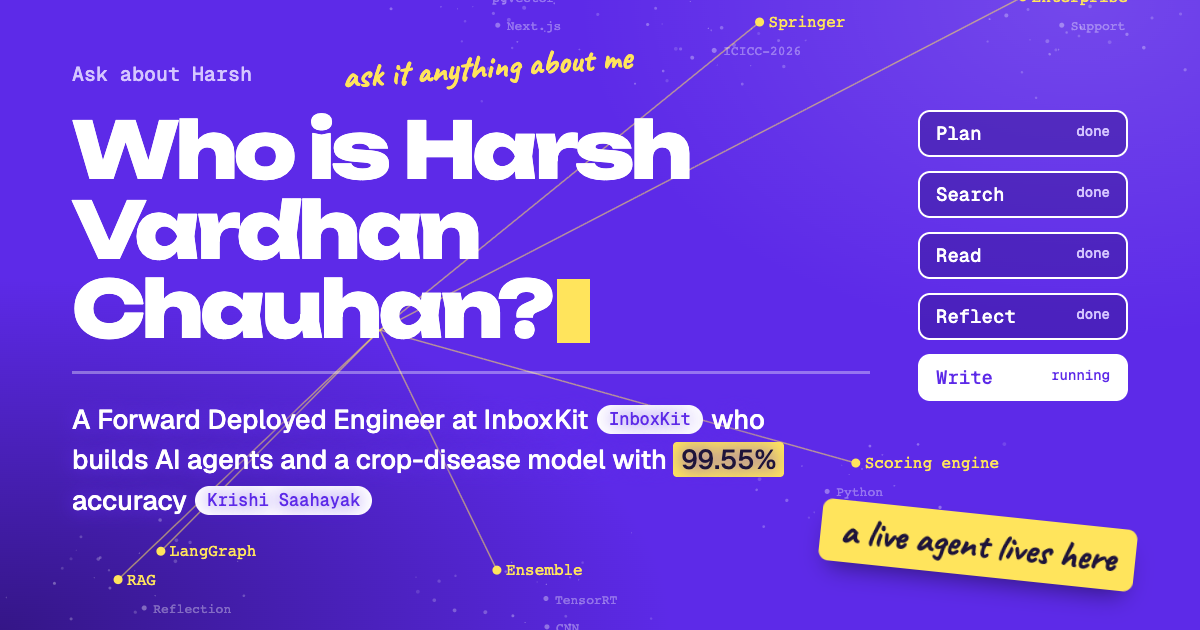
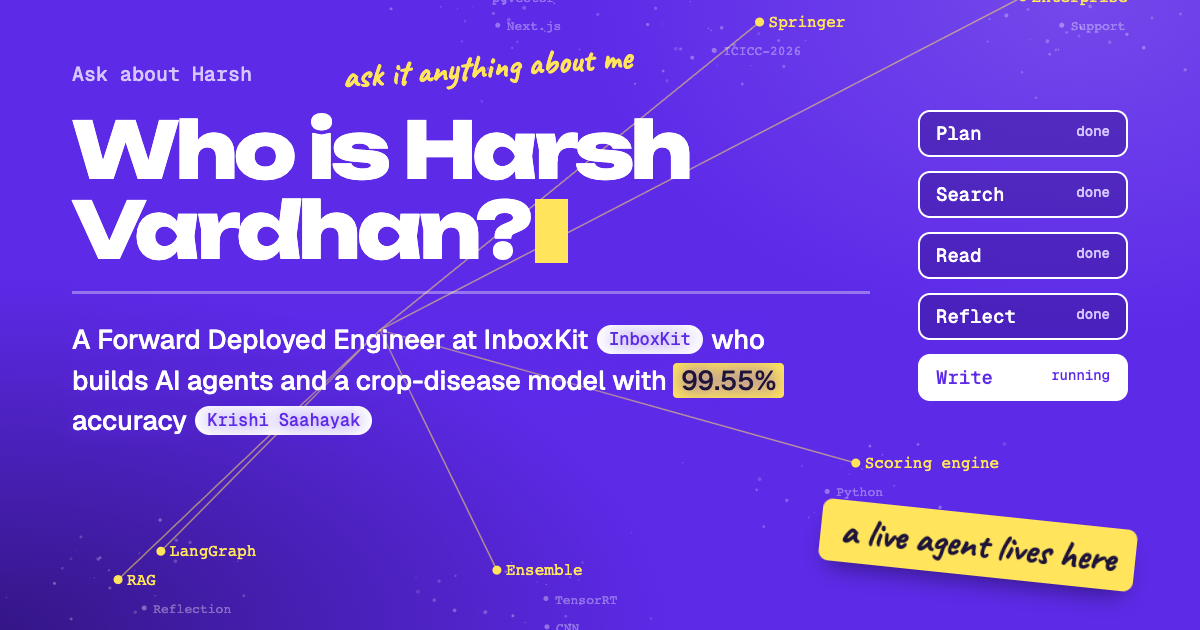
Use Harsh Vardhan in the page and the full name in formal spots; fix note text in white mode

Changed region(s): [[0.0617, 0.3016, 0.7092, 0.8444]]

diff --git a/index.html b/index.html
@@ -3,18 +3,18 @@
 <head>
   <meta charset="utf-8">
   <meta name="viewport" content="width=device-width, initial-scale=1">
-  <title>Harsh Vardhan Chauhan</title>
-  <meta name="description" content="Harsh Vardhan Chauhan is a Forward Deployed Engineer at InboxKit who builds AI agents that hold up with real customers.">
-  <meta property="og:title" content="Harsh Vardhan Chauhan">
+  <title>Harsh Vardhan Singh Chauhan</title>
+  <meta name="description" content="Harsh Vardhan Singh Chauhan is a Forward Deployed Engineer at InboxKit who builds AI agents that hold up with real customers.">
+  <meta property="og:title" content="Harsh Vardhan Singh Chauhan">
   <meta property="og:description" content="Ask an agent about Harsh, then poke the things he built.">
   <meta property="og:type" content="website">
   <meta property="og:url" content="https://vardhan-harsh07.github.io/">
   <meta property="og:image" content="https://vardhan-harsh07.github.io/og.png">
   <meta property="og:image:width" content="1200">
   <meta property="og:image:height" content="630">
-  <meta property="og:image:alt" content="Who is Harsh Vardhan Chauhan? An agent answers, with citations.">
+  <meta property="og:image:alt" content="Who is Harsh Vardhan? An agent answers, with citations.">
   <meta name="twitter:card" content="summary_large_image">
-  <meta name="twitter:title" content="Harsh Vardhan Chauhan">
+  <meta name="twitter:title" content="Harsh Vardhan Singh Chauhan">
   <meta name="twitter:description" content="Ask an agent about Harsh, then poke the things he built.">
   <meta name="twitter:image" content="https://vardhan-harsh07.github.io/og.png">
   <meta name="theme-color" content="#5B2BE0">
@@ -42,7 +42,7 @@
       <g class="eye"><ellipse cx="42" cy="28" rx="9" ry="11" fill="#5B2BE0"/><g class="pupil"><circle cx="42" cy="28" r="4.6" fill="#FFFFFF"/></g></g>
       <rect class="intro-smile" x="21" y="45" width="22" height="5.5" rx="2.75" fill="#FFE45C"/>
     </svg>
-    <p class="intro-name"><span>Harsh</span> <span>Vardhan</span> <span>Chauhan</span></p>
+    <p class="intro-name"><span>Harsh</span> <span>Vardhan</span></p>
   </div>
   <a class="skip" href="#exhibits">Skip to the exhibits</a>
 
@@ -51,14 +51,14 @@
     <canvas class="field" aria-hidden="true"></canvas>
 
     <header class="bar">
-      <a class="mark" href="#top" aria-label="Harsh Vardhan Chauhan, back to top">
+      <a class="mark" href="#top" aria-label="Harsh Vardhan Singh Chauhan, back to top">
         <svg class="logo" viewBox="0 0 64 64" aria-hidden="true">
           <rect class="logo-face" width="64" height="64" rx="18"/>
           <g class="eye" data-eye><ellipse cx="22" cy="28" rx="9" ry="11" fill="#FFFFFF"/><g class="pupil"><circle cx="22" cy="28" r="4.6" fill="#1F153B"/><circle cx="23.5" cy="26.3" r="1.4" fill="#FFFFFF"/></g></g>
           <g class="eye" data-eye><ellipse cx="42" cy="28" rx="9" ry="11" fill="#FFFFFF"/><g class="pupil"><circle cx="42" cy="28" r="4.6" fill="#1F153B"/><circle cx="43.5" cy="26.3" r="1.4" fill="#FFFFFF"/></g></g>
           <rect class="logo-smile" x="21" y="45" width="22" height="5.5" rx="2.75"/>
         </svg>
-        <span>Harsh Vardhan Chauhan</span>
+        <span>Harsh Vardhan</span>
       </a>
       <p class="now"><span class="now-dot" aria-hidden="true"></span>Now: learning the ins and outs of Meta ads</p>
       <nav class="socials" aria-label="Profiles">
@@ -79,7 +79,7 @@
           <p class="scribble scribble-ask" aria-hidden="true">ask it anything about me
             <svg viewBox="0 0 60 40"><path d="M4 6 C 22 4, 40 12, 46 32 M 46 32 L 38 26 M 46 32 L 51 23"/></svg>
           </p>
-          <textarea id="q" name="q" rows="2" spellcheck="false">Who is Harsh Vardhan Chauhan?</textarea>
+          <textarea id="q" name="q" rows="2" spellcheck="false">Who is Harsh Vardhan?</textarea>
           <button type="submit">Ask</button>
         </form>
 
@@ -184,14 +184,14 @@
             <article class="sheet" data-order="0">
               <p class="venue">ICICC-2026, Springer</p>
               <h4>Automated Identification of Crop Diseases Using Deep Learning Frameworks</h4>
-              <p class="authors">Harsh Vardhan Chauhan and co-authors</p>
+              <p class="authors">Harsh Vardhan Singh Chauhan and co-authors</p>
               <p class="abstract"><b>Abstract.</b> Deep learning models that identify crop diseases from leaf images across 38 disease classes, built from the Krishi Saahayak work.</p>
               <span class="stamp">Accepted</span>
             </article>
             <article class="sheet" data-order="1">
               <p class="venue">Springer, 2025</p>
               <h4><a href="https://link.springer.com/chapter/10.1007/978-3-031-98728-1_17">Leveraging Digital Devices for Behavioral Health Assessment via ML</a></h4>
-              <p class="authors">Harsh Vardhan Chauhan and co-authors</p>
+              <p class="authors">Harsh Vardhan Singh Chauhan and co-authors</p>
               <p class="abstract"><b>Abstract.</b> Machine learning on data from everyday digital devices to assess behavioral health.</p>
               <span class="stamp">Published</span>
             </article>
@@ -376,7 +376,7 @@
     </div>
     <div class="printout">
       <div class="printout-sheet">
-        <p class="po-name">Harsh Vardhan Chauhan</p>
+        <p class="po-name">Harsh Vardhan Singh Chauhan</p>
         <p class="po-role">Forward Deployed Engineer</p>
         <p class="po-line">InboxKit, Apr 2026 to now</p>
         <p class="po-line">Arcflip, AI research intern</p>

diff --git a/script.js b/script.js
@@ -285,7 +285,7 @@ const SOURCE_COUNT = Object.keys(SOURCES).length;
 
 const ANSWERS = [
   {
-    ask: 'Who is Harsh Vardhan Chauhan?',
+    ask: 'Who is Harsh Vardhan?',
     match: /\b(who|about|intro|yourself|summary)\b/i,
     keys: ['who', 'about', 'introduction', 'summary', 'background', 'harsh', 'profile'],
     parts: 3,
@@ -1202,7 +1202,7 @@ let terminalReturn = null;
 let greeted = false;
 
 const FILES = {
-  'about.md': 'Harsh Vardhan Chauhan\nForward Deployed Engineer at InboxKit. Builds AI agents and gets them working for real customers.\nKurukshetra, India.',
+  'about.md': 'Harsh Vardhan Singh Chauhan\nForward Deployed Engineer at InboxKit. Builds AI agents and gets them working for real customers.\nKurukshetra, India.',
   'now.md': NOW,
   'inboxkit.md': 'Forward Deployed Engineer, InboxKit (Apr 2026 to now, remote, Dubai)\n- The engineer enterprise customers work with when something breaks\n- Runs onboarding, implementation and the procedures behind them\n- Turns customer requirements into fixes and features',
   'arcflip.md': 'AI Research & Algorithm Intern, Arcflip (Dec 2025 to Feb 2026)\n- Built the core scoring engine for AI career matching\n- Python pipelines that kept data clean across agent workflows\n- Calibrated scores against reference profiles to cut drift',

diff --git a/styles.css b/styles.css
@@ -285,7 +285,7 @@ kbd {
   color: var(--on-ultra);
   font: 800 clamp(1.75rem, 4.6vw, 3.75rem)/1.08 var(--display);
   letter-spacing: -0.03em;
-  caret-color: var(--marker);
+  caret-color: var(--hero-note);
 }
 .ask textarea:focus { outline: none; border-bottom-color: var(--marker); }
 
@@ -790,7 +790,7 @@ kbd {
   border: 0;
   border-bottom: 1.5px solid var(--on-ultra-faint);
   background: transparent;
-  color: #fff;
+  color: var(--on-ultra);
   font: 400 1.05rem/1.5 var(--text);
   resize: vertical;
   padding: 0 0 0.5rem;

diff --git a/tools/og.html b/tools/og.html
@@ -40,7 +40,7 @@
   <div class="content">
     <p class="label">Ask about Harsh</p>
     <p class="note">ask it anything about me</p>
-    <h1>Who is Harsh Vardhan Chauhan?<span class="caret"></span></h1>
+    <h1>Who is Harsh Vardhan?<span class="caret"></span></h1>
     <div class="rule"></div>
     <p class="answer">A Forward Deployed Engineer at InboxKit <span class="cite">InboxKit</span> who builds AI agents and a crop-disease model with <mark>99.55%</mark> accuracy <span class="cite">Krishi Saahayak</span></p>
   </div>

diff --git a/README.md b/README.md
@@ -1,4 +1,4 @@
-# Harsh Vardhan Chauhan
+# Harsh Vardhan Singh Chauhan
 
 Personal portfolio: https://vardhan-harsh07.github.io
 
